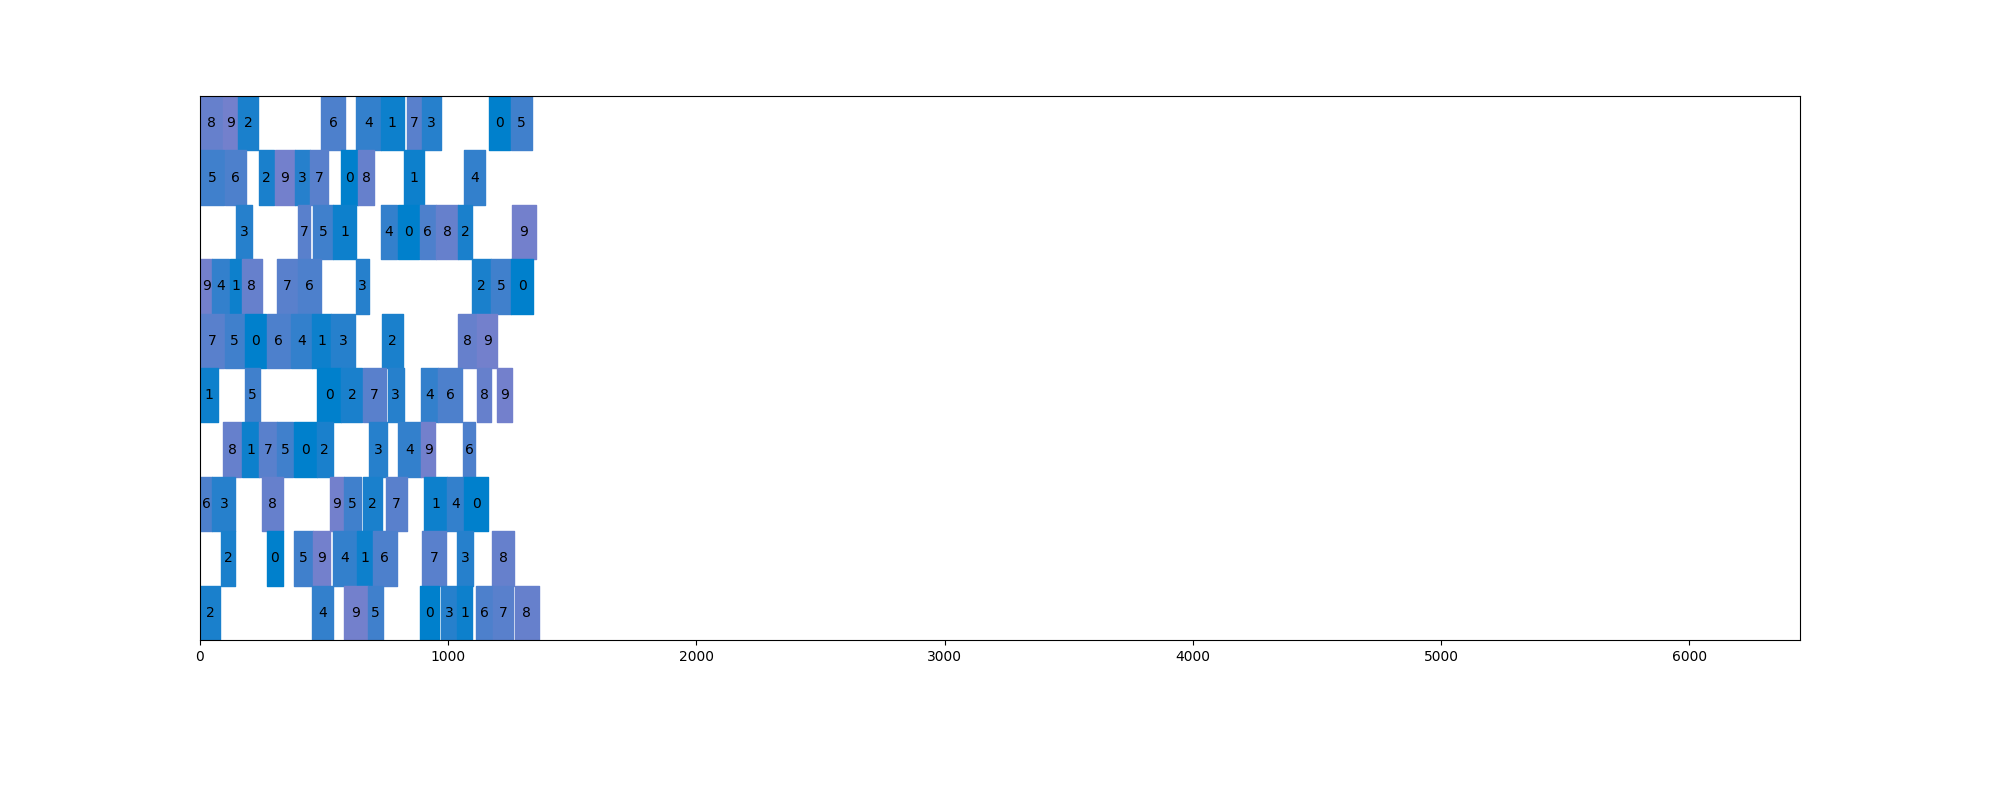
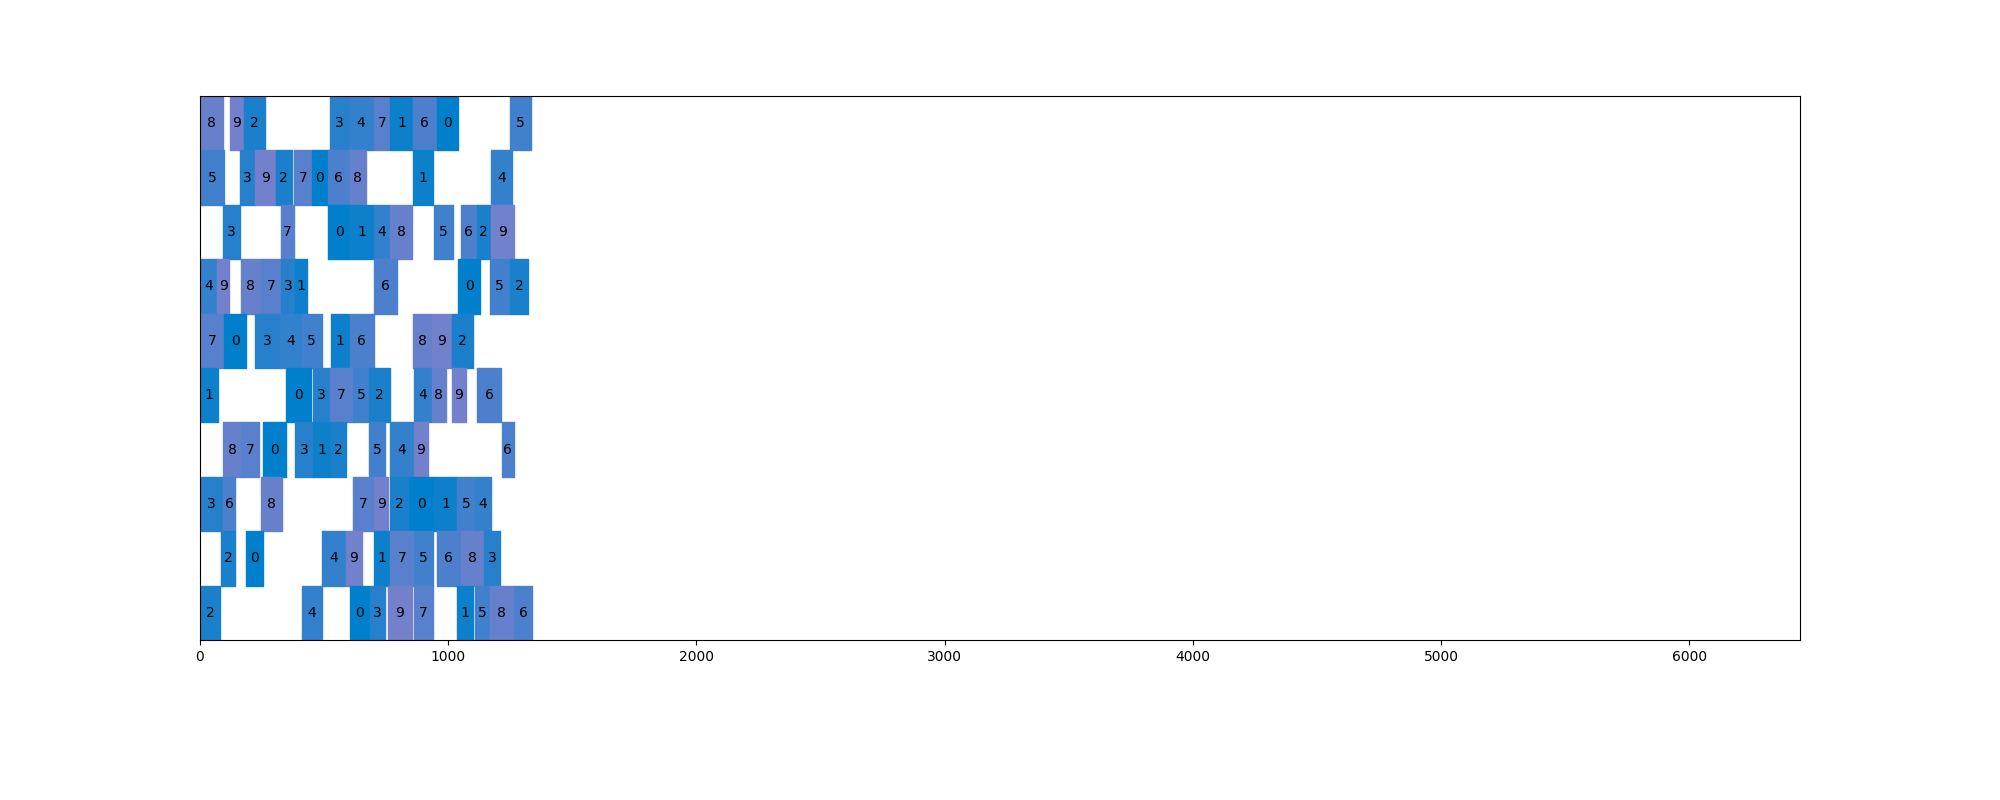
Changed cooling method

Changed region(s): [[0.093, 0.125, 0.279, 0.8125]]

diff --git a/scheduler.py b/scheduler.py
@@ -237,22 +237,22 @@ class HillClimbingOptimizer():
 class SimulatedAnnealingOptimizer:
     def __init__(
         self,
-        T: float,
+        init_T: float,
         ts: TopologicalSort,
         maxSteps: int,
         shuffleing: int = 333,
         logging: str = "progress",
         colored_log = True,
-        cooling_rate: float = 0.95
+        cooling_duration: float = 0.95
     ):
         self.step = 0
-        self.T = T
+        self.T = init_T
         self.currentTS = ts
         self.currentMakeSpan = ts.make_span()
         self.max_steps = maxSteps
         self.shuffleing = shuffleing
         
-        self.cooling_rate = cooling_rate
+        self.cooling_rate = init_T / (cooling_duration * maxSteps)
         self.colored_log = colored_log
 
         if logging == "none":
@@ -264,8 +264,8 @@ class SimulatedAnnealingOptimizer:
         else:
             raise Exception("Unknown logging flag:", logging)
 
-        self.learning_curve = []
-        self.temperature_curve = []
+        self.learning_curve: List[float] = []
+        self.temperature_curve: List[float] = []
 
 
     # ==============Logging===================
@@ -334,7 +334,7 @@ class SimulatedAnnealingOptimizer:
         
         self.learning_curve.append(self.currentMakeSpan)
         self.temperature_curve.append(self.T)
-        self.T *= self.cooling_rate
+        self.T = max(self.T - self.cooling_rate, 0.00000001)
         self.step += 1
 
     def optimize(self):
@@ -490,7 +490,7 @@ def main(argv):
     
 
     #print("Score: {}".format(ts.make_span()))
-    opt, learning_curve, temperature_curve = SimulatedAnnealingOptimizer(3000, ts, 8000, shuffleing=2500, cooling_rate=0.999).optimize()
+    opt, learning_curve, temperature_curve = SimulatedAnnealingOptimizer(65, ts, 8000, shuffleing=2500, cooling_duration=0.618).optimize()
     print("Score: {}".format(opt.make_span()))
 
     test_v2 = Visualizator(opt.get_schedule().scheduleDict, ts.make_span(), 1)
@@ -501,7 +501,7 @@ def main(argv):
 
     plt.figure()
     plt.plot(range(len(learning_curve)), learning_curve)
-    plt.plot(range(len(learning_curve)), temperature_curve)
+    plt.plot(range(len(learning_curve)), [10*x for x in temperature_curve])
     plt.show()
 
     # Visualizator(opt.get_schedule().scheduleDict, ts.make_span()).plot()
